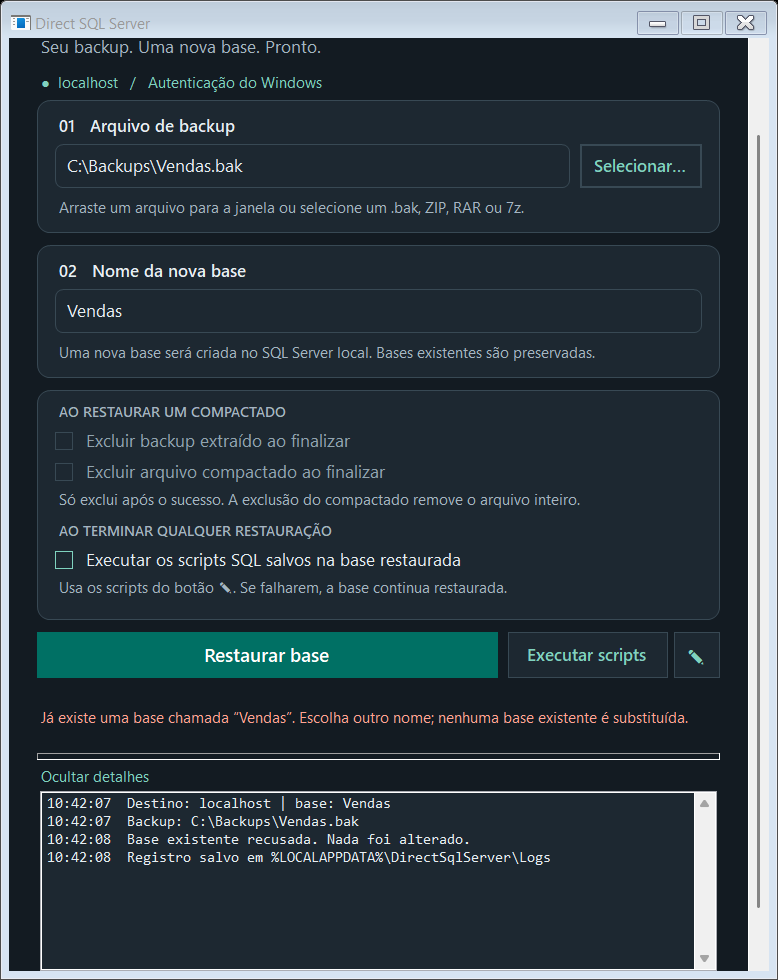
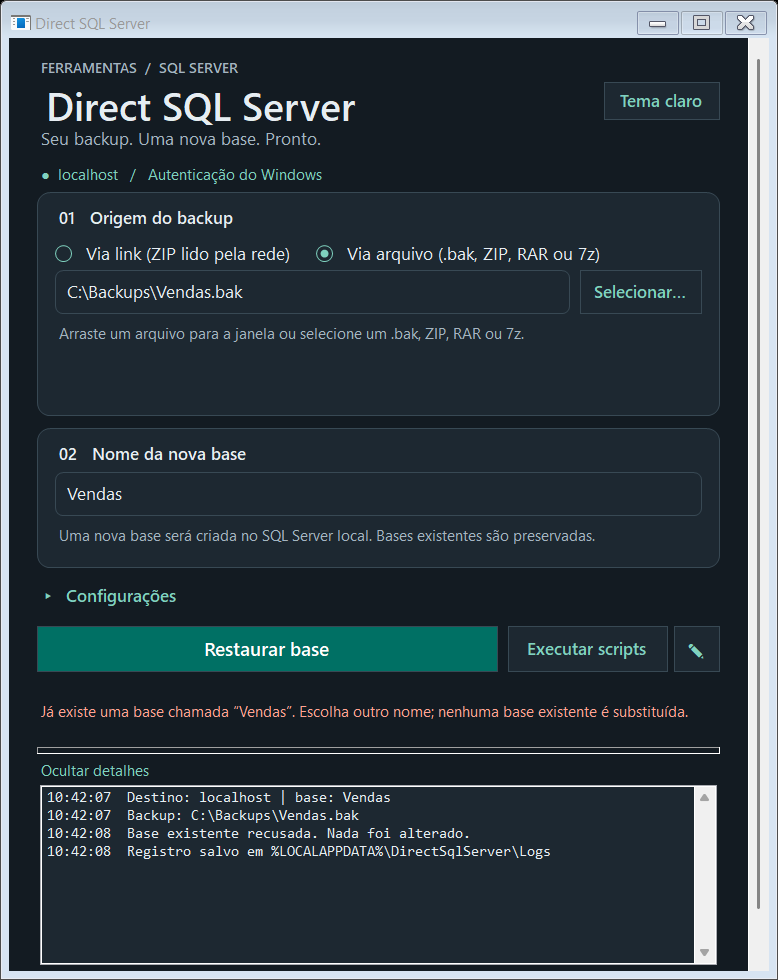
Documentation for 1.10.1: unified screen, via link, settings, cancel, shrink log

diff --git a/README.md b/README.md
@@ -1,12 +1,12 @@
-# Direct SQL Server
+# Direct SQL Server
 
-Aplicativo para **Windows** que restaura um backup do SQL Server em uma **base nova** no seu computador, em poucos cliques. Você escolhe o `.bak` (ou um ZIP, RAR ou 7z que contenha o `.bak`), digita o nome da base e clica em **Restaurar base**. Sem abrir o SSMS, sem escrever `RESTORE DATABASE`, sem descompactar nada à mão.
+Aplicativo para **Windows** que restaura um backup do SQL Server em uma **base nova** no seu computador, em poucos cliques. Você escolhe a origem (um **link** para um ZIP, ou um **arquivo** `.bak`, ZIP, RAR ou 7z do disco), digita o nome da base e clica em **Restaurar base**. Sem abrir o SSMS, sem escrever `RESTORE DATABASE`, sem descompactar nada à mão.
 
 <p align="center">
   <img src="docs/img/03-compactado-claro.png" alt="Janela principal do Direct SQL Server com um ZIP selecionado" width="520">
 </p>
 
-> **Versão atual: 1.6.0.** Veja o que mudou nas [notas de versão](CHANGELOG.md).
+> **Versão atual: 1.10.1.** Veja o que mudou nas [notas de versão](CHANGELOG.md).
 
 ## Sumário
 
@@ -15,7 +15,11 @@ Aplicativo para **Windows** que restaura um backup do SQL Server em uma **base n
 - [Requisitos](#requisitos)
 - [Instalação passo a passo](#instalação-passo-a-passo)
 - [Restaurar um backup passo a passo](#restaurar-um-backup-passo-a-passo)
-- [Backup dentro de um compactado](#backup-dentro-de-um-compactado)
+- [Via link: restaurar sem baixar](#via-link-restaurar-sem-baixar)
+- [Via arquivo: backup dentro de um compactado](#via-arquivo-backup-dentro-de-um-compactado)
+- [Configurações (opções da restauração)](#configurações-opções-da-restauração)
+- [Opções ao terminar a restauração](#opções-ao-terminar-a-restauração)
+- [Cancelar uma restauração](#cancelar-uma-restauração)
 - [Executar scripts SQL na base restaurada](#executar-scripts-sql-na-base-restaurada)
 - [Menu do botão direito no Explorer](#menu-do-botão-direito-no-explorer)
 - [Tema claro e escuro](#tema-claro-e-escuro)
@@ -30,21 +34,24 @@ Aplicativo para **Windows** que restaura um backup do SQL Server em uma **base n
 
 ## Destaques
 
-- **Um fluxo só:** arquivo, nome da base, **Restaurar base**. A conclusão aparece na própria janela.
+- **Um fluxo só:** origem (link ou arquivo), nome da base, **Restaurar base**. A conclusão aparece na própria janela.
+- **Via link:** restaura direto de um link para um ZIP, sem baixar, sem extrair e sem gravar o `.bak` em disco. Mostra velocidade e tempo restante.
 - **Aceita compactados:** ZIP, RAR, 7z, TAR, GZ, BZ2 e XZ. O motor 7-Zip já vem junto; você não precisa instalar 7-Zip nem WinRAR.
 - **Arrastar e soltar** um arquivo para a janela.
 - **Nunca substitui nada:** se já existir uma base com o nome escolhido, a restauração é recusada e nada é alterado.
 - **Seguro por padrão:** conecta só no SQL Server **do próprio computador**, com a **autenticação do Windows**. Não pede nem guarda senha.
-- **Scripts pós-restauração:** botão para rodar, e editar, comandos SQL na base restaurada.
+- **Cancelar** a restauração a qualquer momento, removendo a base parcial.
+- **Depois de restaurar (opcional):** executar scripts SQL salvos e **reduzir o arquivo de log**.
+- **Scripts SQL:** botão para rodar, e editar, comandos na base restaurada.
 - **Menu do Explorer:** botão direito no arquivo → *Restaurar no SQL Server…* (opcional).
 - **Tema claro e escuro.**
 - **Atualização automática** com um clique.
 
 ## Como funciona
 
-1. Você escolhe um arquivo. Se for um compactado, o app procura os `.bak` dentro dele (inclusive em subpastas); se houver vários, você escolhe qual restaurar.
+1. Você escolhe a origem: **Via link** (padrão) ou **Via arquivo**. Em ambos, se houver um compactado, o app procura os `.bak` dentro dele; se houver vários, você escolhe qual restaurar.
 2. Você informa o nome da **nova** base. O app sugere um nome a partir do arquivo.
-3. Ao clicar em **Restaurar base**, o app extrai o `.bak` (se vier de um compactado), lê o conteúdo do backup e restaura todos os arquivos de dados e de log **com nomes novos e exclusivos** nas pastas padrão da instância. Ele **não** usa os caminhos do servidor de origem.
+3. Ao clicar em **Restaurar base**, o app extrai o `.bak` (via arquivo compactado) ou lê o ZIP pela rede (via link), lê o conteúdo do backup e restaura todos os arquivos de dados e de log **com nomes novos e exclusivos** nas pastas padrão da instância. Ele **não** usa os caminhos do servidor de origem.
 4. A restauração acontece primeiro com um nome interno (`DirectSqlRestore_<código>`). Só no final uma renomeação atômica publica a base com o nome que você escolheu.
 5. Terminou: atualize a lista **Bancos de Dados** no SSMS com **F5**.
 
@@ -77,32 +84,37 @@ O instalador não tem assinatura digital paga, então o Windows SmartScreen pode
 
 ### 1. Abra o app
 
-Abra **Direct SQL Server** pelo atalho. A janela abre vazia, pronta para receber o arquivo.
+Abra **Direct SQL Server** pelo atalho. A janela abre com **Via link** selecionado.
 
 <p align="center">
-  <img src="docs/img/01-inicial-claro.png" alt="Janela inicial no tema claro" width="460">
+  <img src="docs/img/11-link-inicial-claro.png" alt="Janela inicial no tema claro, com Via link selecionado" width="460">
 </p>
 
 A faixa verde **localhost / Autenticação do Windows** lembra onde o app vai restaurar: o SQL Server deste computador, com o seu usuário do Windows.
 
-### 2. Escolha o arquivo de backup
+### 2. Escolha a origem do backup
 
-Faça **um** destes:
+No cartão **01 Origem do backup** há duas opções. A linha abaixo muda conforme a escolha:
 
-- clique em **Selecionar…** e escolha o arquivo; ou
-- **arraste** o arquivo do Explorer para dentro da janela; ou
-- use o [menu do botão direito](#menu-do-botão-direito-no-explorer), que já abre o app com o arquivo selecionado.
+| Opção | Campo | O que faz |
+|---|---|---|
+| **Via link (ZIP lido pela rede)** | Cole o link e clique em **Ler link** | Lê o índice do ZIP pela rede e mostra o backup que está dentro dele. Veja [Via link](#via-link-restaurar-sem-baixar). |
+| **Via arquivo (.bak, ZIP, RAR ou 7z)** | Clique em **Selecionar…** ou arraste o arquivo para a janela | Usa um arquivo do disco. Veja [Via arquivo](#via-arquivo-backup-dentro-de-um-compactado). |
 
-Aceita `.bak`, `.zip`, `.rar`, `.7z` e outros formatos de compactado. Selecione **um arquivo por vez**.
+<p align="center">
+  <img src="docs/img/10-via-arquivo-inicial-claro.png" alt="Origem Via arquivo selecionada" width="460">
+</p>
+
+Arrastar um arquivo para a janela, ou usar o [menu do botão direito](#menu-do-botão-direito-no-explorer), seleciona **Via arquivo** automaticamente. Selecione **uma origem por vez**.
 
 ### 3. Confira o nome da nova base
 
-O campo **02 Nome da nova base** é preenchido com o nome do arquivo. Altere se quiser. O nome pode ter acentos e espaços; só não pode ser vazio, ter caracteres de controle, ter mais de 128 caracteres nem ser o nome de uma base do sistema (`master`, `model`, `msdb`, `tempdb`).
+O campo **02 Nome da nova base** é preenchido com o nome do arquivo (ou do `.bak` dentro do ZIP). Altere se quiser. O nome pode ter acentos e espaços; só não pode ser vazio, ter caracteres de controle, ter mais de 128 caracteres nem ser o nome de uma base do sistema (`master`, `model`, `msdb`, `tempdb`).
 
-Quando o arquivo é um `.bak`, a janela mostra **"Pronto para restaurar em uma nova base."**
+A mensagem abaixo do botão muda conforme a origem: via arquivo mostra **"Pronto para restaurar em uma nova base."**; via link mostra **"Pronto. O backup será lido direto da rede e entregue ao SQL Server."**
 
 <p align="center">
-  <img src="docs/img/02-bak-selecionado-claro.png" alt="Arquivo .bak selecionado e nome da base preenchido" width="460">
+  <img src="docs/img/02-bak-selecionado-claro.png" alt="Via arquivo, com um .bak selecionado e o nome da base preenchido" width="460">
 </p>
 
 ### 4. Clique em Restaurar base
@@ -129,7 +141,7 @@ Se algo falhar, a mensagem aparece em vermelho e a seção de **detalhes** abre 
 
 Use **Mostrar detalhes** / **Ocultar detalhes** quando quiser ver o passo a passo da restauração, mesmo sem erro.
 
-## Backup dentro de um compactado
+## Via arquivo: backup dentro de um compactado
 
 Selecione o ZIP, RAR ou 7z normalmente. O app procura o `.bak` lá dentro; **você não precisa extrair nada**.
 
@@ -148,7 +160,7 @@ Reserve espaço livre equivalente ao tamanho do `.bak`.
 
 ### Opções de exclusão
 
-Com um compactado selecionado, a caixa **AO RESTAURAR UM COMPACTADO** fica ativa:
+Com um compactado selecionado **via arquivo**, a caixa **AO RESTAURAR UM COMPACTADO (SÓ VIA ARQUIVO)** fica ativa. Via link ela fica desabilitada, porque não há `.bak` extraído nem compactado no disco:
 
 | Opção | O que faz |
 |---|---|
@@ -166,6 +178,17 @@ Com um compactado selecionado, a caixa **AO RESTAURAR UM COMPACTADO** fica ativa
 ### Pasta que exige permissão
 
 Se o Windows não deixar criar a pasta de extração ao lado do compactado (por exemplo, em `C:\inetpub\SQLServerData`), o app pede **autorização de administrador somente nesse caso** e continua com o mesmo arquivo, nome e opções. Se você cancelar o pedido, a janela original permanece e **nada é excluído**.
+
+## Cancelar uma restauração
+
+Enquanto a restauração roda (via link ou via arquivo), o botão **Cancelar** ocupa o lugar de **Executar scripts**, ao lado de **Restaurar base**.
+
+1. Clique em **Cancelar** e confirme.
+2. O app interrompe a leitura (extração ou download) e o RESTORE no SQL Server.
+3. A base parcial (`DirectSqlRestore_…`) criada por aquela execução é **removida**. O nome que você escolheu nunca chega a aparecer, e nenhuma outra base é tocada.
+4. Via arquivo, se o backup veio de um compactado, o `.bak` já extraído **é mantido** na pasta de extração, e o compactado original não é tocado.
+
+Cancelar não é instantâneo em backups enormes: o SQL Server precisa desfazer o que já gravou e apagar os arquivos da base parcial, o que pode levar de alguns segundos a alguns minutos.
 
 ## Executar scripts SQL na base restaurada
 
@@ -185,10 +208,10 @@ Ao lado de **Restaurar base** há o botão **Executar scripts** e um lápis para
 
 ### Executar automaticamente depois de restaurar
 
-Na caixa de opções existe **Executar os scripts SQL salvos na base restaurada** (em *Ao terminar qualquer restauração*). Marcada, o app roda os scripts salvos logo depois de **restaurar com sucesso**, sem pedir confirmação nem precisar clicar em **Executar scripts**.
+Marcando **Executar os scripts SQL salvos na base restaurada**, o app roda os scripts salvos logo depois de **restaurar com sucesso**, sem pedir confirmação nem precisar clicar em **Executar scripts**.
 
 - **Desmarcada por padrão.** A escolha fica salva em `%APPDATA%\DirectSqlServer\preferences.xml` e continua depois de reiniciar o PC.
-- **Vale para `.bak` e para compactados.**
+- **Vale via arquivo e via link.**
 - **Se os scripts falharem,** a base continua restaurada. Só os scripts são desfeitos (transação única) e o erro aparece em vermelho com os detalhes abertos.
 - **Sem scripts salvos,** o app apenas avisa que não havia nada para executar.
 - Como roda sem perguntar, confira o texto no editor (lápis) antes de marcar a opção.
@@ -200,6 +223,83 @@ Na caixa de opções existe **Executar os scripts SQL salvos na base restaurada*
 - **Só em base existente:** a base precisa existir e estar online. Bases de sistema (`master`, `model`, `msdb`, `tempdb`) são recusadas.
 - **Fica salvo:** os scripts ficam em `%APPDATA%\DirectSqlServer\scripts.sql` e continuam lá depois de reiniciar o PC e de atualizar o app.
 - **Cuidado:** os comandos alteram dados e **não dá para desfazer depois de concluídos**. Confira o nome da base antes de confirmar.
+
+## Via link: restaurar sem baixar
+
+Com **Via link** selecionado, o app restaura **direto de um link para um ZIP**, sem baixar o arquivo, sem extrair o `.bak` e sem gravá-lo em disco. Ele lê o ZIP pela rede e entrega o backup ao SQL Server por um dispositivo virtual (VDI). No disco só fica a base restaurada.
+
+<p align="center">
+  <img src="docs/img/12-link-pronto-claro.png" alt="Via link com um link lido e o nome da base preenchido" width="460">
+</p>
+
+**Passo a passo**
+1. Com **Via link** selecionado, o app mostra um aviso se não estiver como administrador (o dispositivo virtual exige isso). Clique em **Reiniciar como administrador**, aceite o pedido do Windows e o app reabre.
+2. Cole o **link público (https)** de um `.zip` e clique em **Ler link**. Com o Dropbox, use o link com `dl=1` no final.
+3. O app lê só o índice do ZIP e mostra o backup que está dentro dele, no cartão do nome. Se houver mais de um `.bak`, abre uma janela para você escolher. O nome da base é sugerido a partir do nome do `.bak`.
+4. Confira o nome da nova base e clique em **Restaurar base**. A barra mostra quanto já foi lido da rede, a velocidade e o tempo restante.
+
+<p align="center">
+  <img src="docs/img/14-link-preparando-claro.png" alt="Fase de preparação dos arquivos da base no SQL Server" width="460">
+</p>
+
+<p align="center">
+  <img src="docs/img/13-link-restaurando-claro.png" alt="Restauração via link em andamento, com velocidade e tempo restante" width="460">
+</p>
+
+**Velocidade e tempo restante.** O app baixa vários blocos do ZIP ao mesmo tempo (8 conexões) e descompacta na frente do SQL Server. Em um teste com um link do Dropbox, a leitura passou de 14,6 MB/s (uma conexão) para 95,9 MB/s. A velocidade real depende da sua internet e do servidor do link. A barra de status mostra a **velocidade, a porcentagem e o tempo restante estimado**, calculado pela média do último minuto; nos primeiros segundos ainda não há estimativa.
+
+**Por que o início fica em 0% por alguns minutos.** Antes de ler o backup, o próprio SQL Server cria e **zera** os arquivos da nova base, com o mesmo tamanho dos arquivos originais (inclusive o log, que em alguns bancos tem dezenas de GB). Isso não depende da rede nem do app. O app mostra "Preparando a base no SQL Server (reservando e zerando X GB de dados e Y GB de log)" com o tempo decorrido. Só depois a leitura começa e aparecem a porcentagem, a velocidade e o tempo restante. Em um backup com 27 GB de dados e 26 GB de log, a preparação levou cerca de 2 minutos e a leitura de 24 GB, cerca de 4 minutos.
+
+Para encurtar a preparação dos arquivos de **dados**, ative a *inicialização instantânea de arquivos* do SQL Server (permissão do Windows "Executar tarefas de manutenção de volume" para a conta do serviço do SQL Server, e reiniciar o serviço). O arquivo de **log** continua sendo zerado. Essa é uma configuração de segurança do servidor: o app não a altera.
+
+**O que você economiza.** Hoje, com um ZIP de 50 GB e um backup de 100 GB, o pico de disco chega a cerca de 250 GB (ZIP + pasta extraída + base). Restaurando do link, o pico é só o da **base (100 GB)**.
+
+**Limites do modo link**
+- Só **ZIP**. RAR e 7z não podem ser lidos em partes pela rede.
+- O servidor do link precisa aceitar **leitura parcial** (cabeçalho `Range`). O Dropbox aceita. Se o servidor não aceitar, o app avisa.
+- Restaura o **primeiro backup** do `.bak`. Para arquivos com vários backups, use **Via arquivo**.
+- Precisa de **administrador**. Em um app elevado, arrastar arquivos do Explorer para a janela não funciona (limitação do Windows); use **Selecionar…**.
+- Se a conexão cair no meio, a restauração falha e o app informa; a base interna parcial só fica para você apagar se o SQL não conseguir removê-la. A base com o nome que você escolheu só aparece quando tudo termina.
+- O link contém um código secreto: o app **não o grava** em log nem em arquivo.
+- As opções de exclusão de arquivos não se aplicam (não há arquivo extraído nem compactado no disco). As opções de **depois da restauração** valem normalmente.
+- Antes de começar, o app confere se há espaço livre para a base e recusa nomes de base já existentes.
+
+## Configurações (opções da restauração)
+
+Todas as opções ficam sob o título **Configurações**, entre o nome da base e o botão **Restaurar base**. Clique em **▸ Configurações** para expandir e em **▾ Configurações** para recolher. Recolhido (o padrão), o título mostra quantas opções estão ativas, por exemplo "▸ Configurações · 2 opções ativas".
+
+<p align="center">
+  <img src="docs/img/15-configuracoes-recolhidas-claro.png" alt="Configurações recolhidas, mostrando 2 opções ativas" width="460">
+</p>
+
+<p align="center">
+  <img src="docs/img/16-configuracoes-abertas-claro.png" alt="Configurações expandidas com as opções de exclusão, scripts e redução do log" width="460">
+</p>
+
+## Opções ao terminar a restauração
+
+Em **AO TERMINAR QUALQUER RESTAURAÇÃO**, dentro de **Configurações**, valem para **via link e via arquivo**. Todas começam **desmarcadas** e a sua escolha fica salva (`%APPDATA%\DirectSqlServer\preferences.xml`), inclusive depois de reiniciar o PC.
+
+| Opção | O que faz |
+|---|---|
+| **Executar os scripts SQL salvos na base restaurada** | Roda os scripts do botão ✎ logo depois de restaurar com sucesso, sem pedir confirmação. Veja [Executar scripts SQL](#executar-scripts-sql-na-base-restaurada). |
+| **Reduzir o arquivo de log depois de restaurar** | Reduz o log da base restaurada para cerca de 256 MB (veja abaixo). |
+
+Se uma etapa falhar, a base continua restaurada e a mensagem em vermelho explica o que não deu certo. Quando tudo dá certo, a mensagem final lista o que foi feito: "Base “X” restaurada, scripts executados, log reduzido."
+
+### Reduzir o arquivo de log
+
+Uma restauração recria o arquivo de log com o **tamanho do original**, que pode ter dezenas de GB e estar quase vazio. Marcando esta opção, o app:
+
+1. muda o modelo de recuperação da base para **SIMPLE**;
+2. executa `CHECKPOINT` e `DBCC SHRINKFILE` no(s) arquivo(s) de log, com alvo de **256 MB** (até 3 passadas);
+3. mostra no detalhe o tamanho antes e depois, por exemplo "Log “Base_log”: 26,1 GB → 280 MB".
+
+Cuidados:
+- **`SIMPLE` quebra a cadeia de backups de log.** Use em cópias de teste ou homologação, **não** em base de produção com backups de log.
+- O SQL só devolve espaço em múltiplos dos segmentos internos do log, então o resultado fica **perto** de 256 MB, não exatamente nele.
+- Se a base tiver atividade, o log volta a crescer conforme o uso.
+- Reduzir o log **não acelera** a restauração: o SQL ainda cria e zera o log inteiro antes de ler o backup. Só libera disco depois.
 
 ## Menu do botão direito no Explorer
 

diff --git a/CHANGELOG.md b/CHANGELOG.md
@@ -1,6 +1,39 @@
-# Notas de versão
+# Notas de versão
+
+## 1.10.1
+
+Reúne as mudanças desde a 1.8.0 (as versões 1.9.x e 1.10.0 não foram publicadas).
+
+### Tela única: via link ou via arquivo
+- As duas abas viraram uma tela só. O cartão **01 Origem do backup** tem dois botões de opção: **Via link** (padrão) e **Via arquivo**. A linha de entrada muda conforme a escolha (link + **Ler link**, ou arquivo + **Selecionar…**), e a mensagem abaixo do botão **Restaurar base** também.
+- Via link, o nome do `.bak` dentro do ZIP é mostrado e sugerido como nome da base, igual ao que acontece com um arquivo do disco.
+- As opções **Executar os scripts SQL salvos** e a nova **Reduzir o arquivo de log depois de restaurar** valem para os dois tipos de origem. As opções de exclusão de arquivos só se aplicam via arquivo (via link ficam desabilitadas).
+- O botão **Cancelar** funciona nos dois tipos de origem.
+- Abrir o app com um arquivo (menu do Explorer ou arrastar para a janela) seleciona **Via arquivo** automaticamente.
+
+### Configurações recolhíveis
+- As opções (exclusão de arquivos, executar scripts, reduzir o log) ficam sob um título **Configurações** que expande e recolhe. Vem recolhido por padrão e mostra quantas opções estão ativas ("Configurações · 2 opções ativas"). A janela fica mais curta.
+
+### Reduzir o arquivo de log
+- Nova opção, desmarcada por padrão e lembrada após reiniciar o PC: depois de restaurar, muda a base para recuperação SIMPLE e reduz o log para cerca de 256 MB (até 3 passadas de `DBCC SHRINKFILE`). Mostra o tamanho antes e depois. Não use em base de produção com backups de log.
+
+### Restauração pelo link bem mais rápida, com tempo restante
+- A aba **Link (experimental)** passou a baixar **vários blocos do ZIP ao mesmo tempo** (8 conexões) e a descompactar em uma thread própria, na frente do SQL Server. No ZIP de teste do Dropbox, a leitura subiu de **14,6 MB/s para 95,9 MB/s** descompactados (cerca de 6,6 vezes mais), porque cada conexão sozinha era limitada a ~2,5 MB/s pelo servidor.
+- A barra de status agora mostra a **velocidade e o tempo restante estimado** ("... · 85 MB/s · faltam ~ 3 h 05 min"). A aba de arquivo também mostra o tempo restante nas etapas com porcentagem.
+- Transferência ao SQL Server em blocos de 4 MB (antes 1 MB).
+
+### Fase de preparação visível
+- Antes de ler o backup, o SQL Server cria e **zera os arquivos da base** (em um backup com 27 GB de dados e 26 GB de log, isso levou cerca de 2 minutos sem nenhuma porcentagem). O app agora mostra essa fase: "Preparando a base no SQL Server (reservando e zerando X GB de dados e Y GB de log). Decorrido mm:ss". Quando a leitura começa, a porcentagem, a velocidade e o tempo restante aparecem.
+- Ao cancelar, os arquivos parciais deixados na pasta de dados do SQL Server são apagados (se nenhuma base os usa).
+
+### Cancelar a restauração
+- Novo botão **Cancelar** durante a restauração, nas duas abas (na aba de arquivo ele ocupa o lugar do botão Executar scripts enquanto a restauração roda). Pede confirmação, interrompe a extração, o download e o RESTORE no SQL Server e **remove a base parcial** criada por aquela execução. O nome final nunca aparece. Se o backup veio de um compactado, o `.bak` já extraído é mantido.
 
 ## 1.7.0
+
+### Restaurar direto de um link (experimental)
+- Nova aba **Link (experimental)**: cole o link de um ZIP e restaure sem baixar, extrair nem gravar o `.bak` em disco. O ZIP é lido pela rede (leitura parcial) e entregue ao SQL Server por um dispositivo virtual (VDI). Pico de disco: só a base restaurada.
+- Precisa de administrador (o app oferece reiniciar como administrador já nesta aba). Só ZIP; restaura o primeiro backup do arquivo.
 
 ### Scripts SQL depois de restaurar
 - Novo botão **Executar scripts** e um lápis para **editar** os comandos. Eles rodam na base indicada em "Nome da nova base", todos em uma única transação (se um falhar, nada é alterado), com `GO` para separar lotes.
